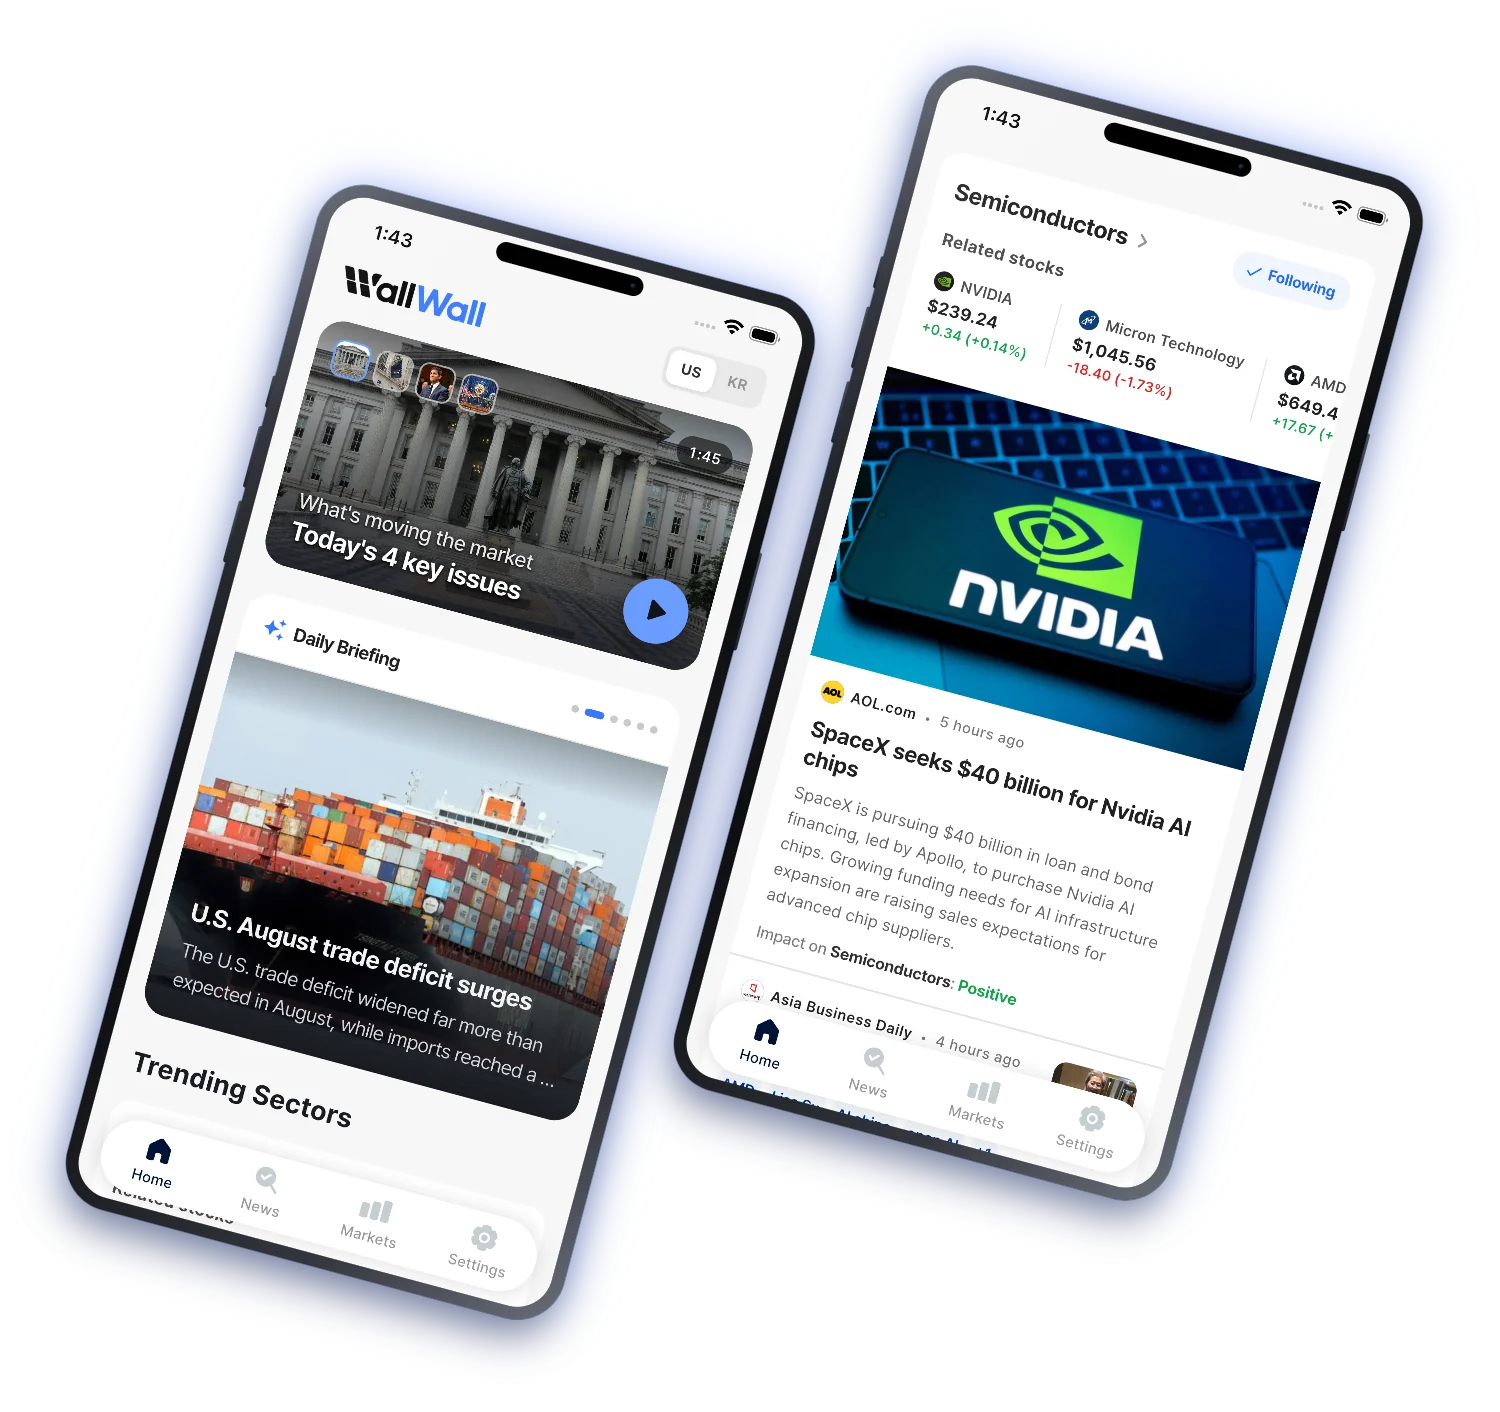
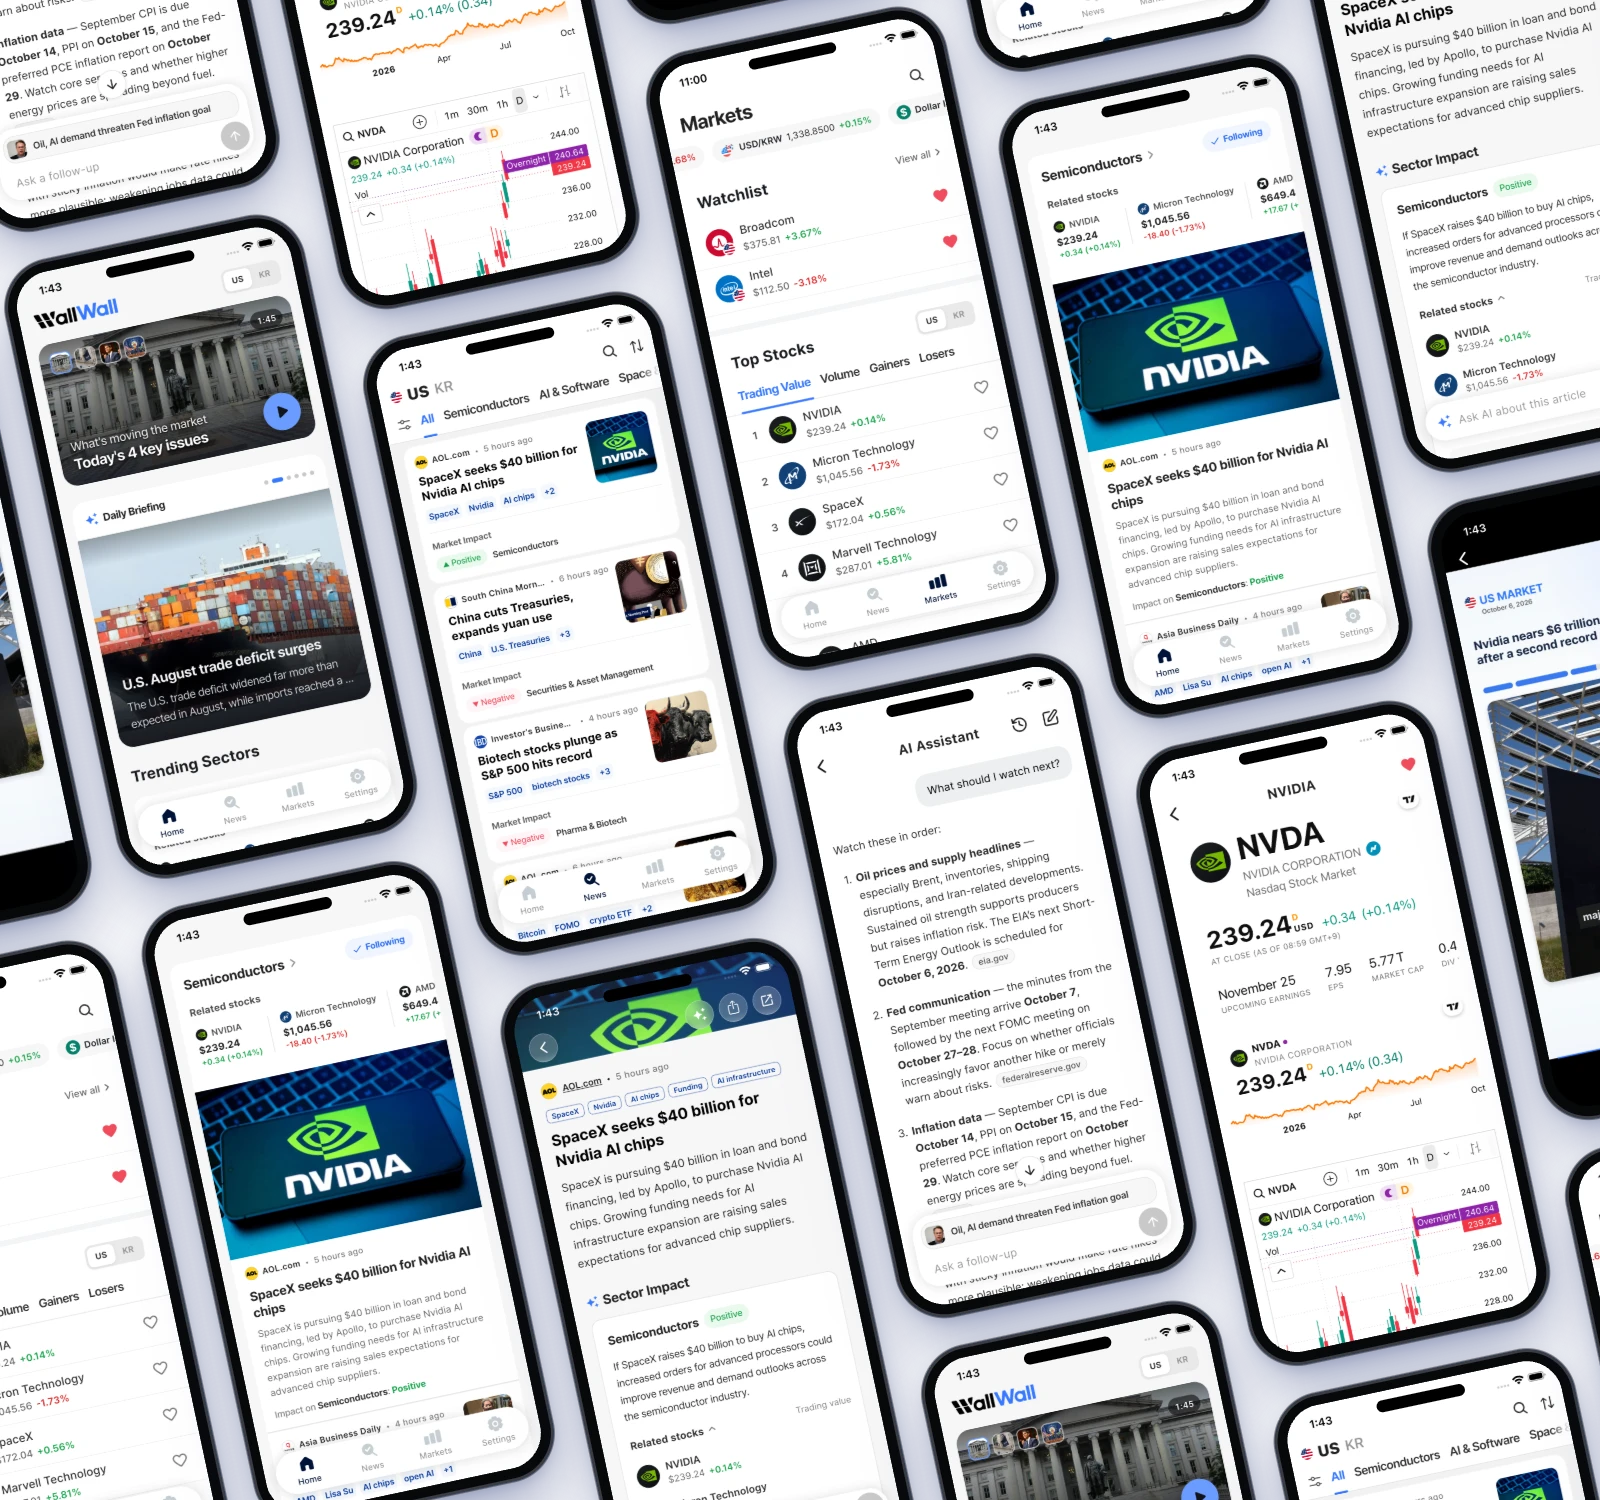
feat(home): expand app screenshot wall across responsive hero
Context/purpose:
- The previous hero layout constrained the app screenshots to a narrow image column and added hover motion, limiting the intended full-bleed showcase across desktop and mobile.

- Make the app screenshot collage fill and crop within a responsive hero area with gradient edge fades on desktop and mobile.
- Remove app badge and screenshot hover transformations while using a simple fade-in entrance animation.
- Refresh English and Korean screenshot assets and describe the expanded app screen coverage in both hero image alt texts.

diff --git a/styles/home.css b/styles/home.css
@@ -92,17 +92,7 @@ body {
 
 .app-link {
     display: inline-block;
-    transition: all 0.3s cubic-bezier(0.4, 0, 0.2, 1);
     filter: drop-shadow(0 4px 12px rgba(0, 0, 0, 0.15));
-}
-
-.app-link:hover {
-    transform: translateY(-4px);
-    filter: drop-shadow(0 8px 20px rgba(0, 0, 0, 0.2));
-}
-
-.app-link:active {
-    transform: translateY(-2px);
 }
 
 .app-link img {
@@ -113,24 +103,52 @@ body {
 }
 
 .intro-image-area {
-    flex: 1.55 1 460px;
-    display: flex;
-    justify-content: center;
-    align-items: center;
-    min-width: 300px;
-    animation: fadeInUp 0.8s ease-out 0.2s backwards;
+    animation: fadeIn 1s ease-out 0.2s backwards;
 }
 
+/* The hero image is a full-bleed wall of app screens: cropped to fit its box, its edges fading into the page gradient. */
 .intro-image {
-    max-width: 100%;
-    height: auto;
-    max-height: 820px;
-    filter: drop-shadow(0 20px 40px rgba(0, 0, 0, 0.15));
-    transition: transform 0.3s ease;
+    display: block;
+    width: 100%;
+    height: 100%;
+    object-fit: cover;
 }
 
-.intro-image:hover {
-    transform: scale(1.02);
+@keyframes fadeIn {
+    from { opacity: 0; }
+    to { opacity: 1; }
+}
+
+/* Desktop: the wall fills the right side, from mid-page to the window edge and from the nav to the footer. */
+@media (min-width: 969px) {
+    .main-content {
+        position: relative;
+        overflow: hidden;
+        min-height: 640px;
+    }
+
+    .intro-content {
+        position: relative;
+        z-index: 1;
+        flex: 0 1 auto;
+        max-width: 46%;
+    }
+
+    .intro-image-area {
+        position: absolute;
+        top: 0;
+        bottom: 0;
+        right: 0;
+        left: max(44%, calc(50% - 120px));
+        -webkit-mask-image: linear-gradient(90deg, transparent 0%, #000 22%), linear-gradient(180deg, transparent 0%, #000 10%, #000 90%, transparent 100%);
+        -webkit-mask-composite: source-in;
+        mask-image: linear-gradient(90deg, transparent 0%, #000 22%), linear-gradient(180deg, transparent 0%, #000 10%, #000 90%, transparent 100%);
+        mask-composite: intersect;
+    }
+
+    .intro-image {
+        object-position: left center;
+    }
 }
 
 /* Responsive design */
@@ -164,8 +182,13 @@ body {
         justify-content: center;
     }
 
-    .intro-image {
-        max-height: 500px;
+    /* A full-width band under the copy, fading out at the top and bottom. */
+    .intro-image-area {
+        height: 460px;
+        margin: 0 -20px;
+        width: calc(100% + 40px);
+        -webkit-mask-image: linear-gradient(180deg, transparent 0%, #000 15%, #000 85%, transparent 100%);
+        mask-image: linear-gradient(180deg, transparent 0%, #000 15%, #000 85%, transparent 100%);
     }
 }
 
@@ -204,8 +227,10 @@ body {
     }
 
 
-    .intro-image {
-        max-height: 400px;
+    .intro-image-area {
+        height: 380px;
+        margin: 0 -24px;
+        width: calc(100% + 48px);
     }
 }
 

diff --git a/index.html b/index.html
@@ -83,7 +83,7 @@
             </div>
 
             <div class="intro-image-area">
-                <img src="/assets/app_intro_screenshots_en.webp" alt="WallWall app showing the home screen with the AI video briefing and a trending sector with its related stocks and news" class="intro-image" width="1500" height="1412">
+                <img src="/assets/app_intro_screenshots_en.webp" alt="WallWall app screens: the AI video briefing, home, trending sectors, story sector impact, the AI assistant, markets and a stock page" class="intro-image" width="1600" height="1500">
             </div>
         </div>
     </div>

diff --git a/ko/index.html b/ko/index.html
@@ -75,7 +75,7 @@
             </div>
 
             <div class="intro-image-area">
-                <img src="/assets/app_intro_screenshots_ko.webp" alt="월월 앱의 AI 영상 브리핑 홈 화면과 지금 뜨는 섹터의 관련 종목 및 뉴스 화면" class="intro-image" width="1500" height="1412">
+                <img src="/assets/app_intro_screenshots_ko.webp" alt="월월 앱 화면: AI 영상 브리핑, 홈, 지금 뜨는 섹터, 기사별 섹터 영향, AI 어시스턴트, 시장, 종목 상세" class="intro-image" width="1600" height="1500">
             </div>
         </div>
     </div>
